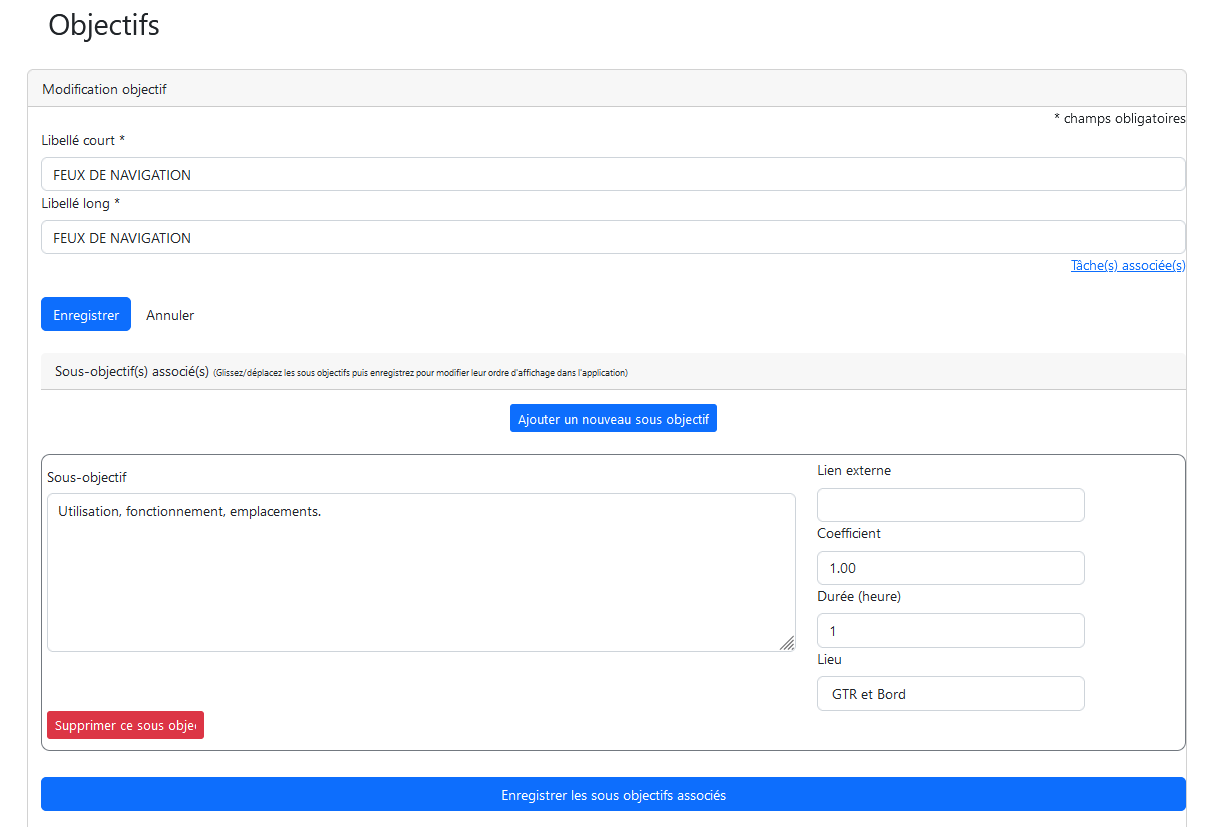
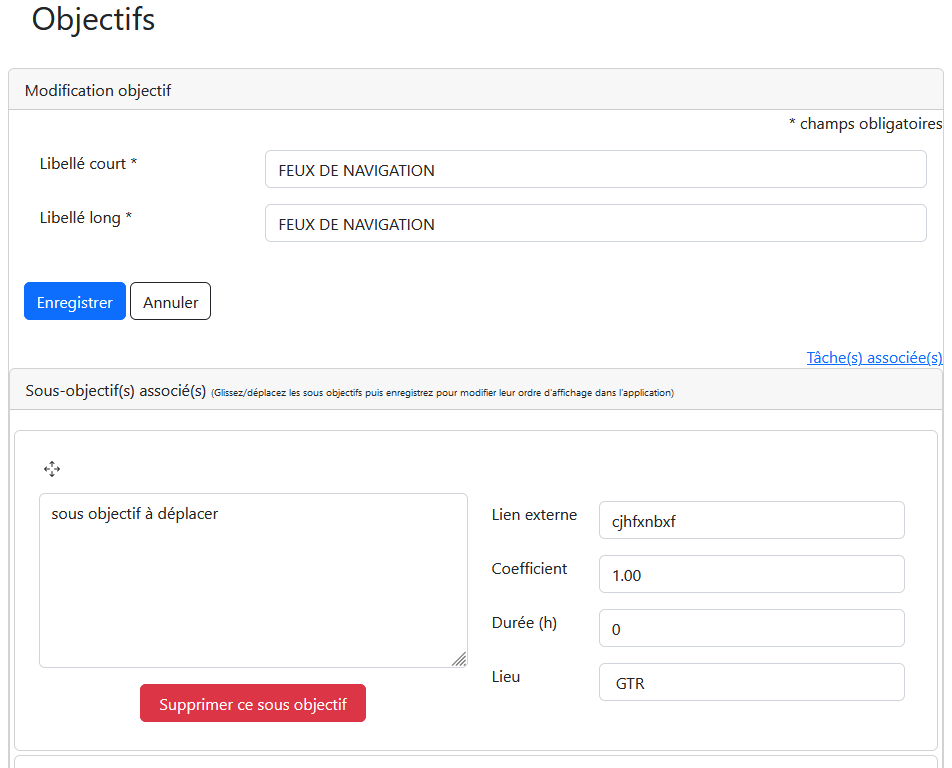
mise a jour de la doc

diff --git a/resources/docs/1.0/connexion.md b/resources/docs/1.0/connexion.md
@@ -2,21 +2,21 @@
 
 
 - [Généralités](#generalite)
-- [Login Auto](#login_auto)
+- [Login MindefConnect](#login_auto)
 - [Login Local](#login_local)
 - [Instance de démonstration](#inst_demo)
 
 <a name="generalite">
 ## Généralités
 
-Pour accéder à FFAST, l’utilisateur doit avoir accès à un ordinateur ayant accès à **Intradef**.  Il existe deux façons de se connecter à l'application :
-  - Le login "auto" qui permet de se connecter avec ses identifiants DR-CPT.
-  - Le login "local" qui permet de se connecter avec son @mail et un mot de passe défini par l'utilisateur.
+Pour accéder à FFAST, l’utilisateur doit avoir accès à un ordinateur ayant accès à **Intradef**. Après avoir cliqué sur le bouton "login" de la page d'accueil du site, deux types de connexion sont disponibles :
+  - (1) L'authentification MindefConnect (ex-login "auto") qui permet de se connecter avec ses identifiants DR-CPT.
+  - (2) Le login "local" qui permet de se connecter avec son @mail et un mot de passe défini par l'utilisateur.
 <p>&nbsp;</p>
-<img src="{{ url(asset('docs/images/' . env('DOC_VERSION') . '/connexion/login_auto_local.png' )) }}" >
+<img src="{{ url(asset('docs/images/' . env('DOC_VERSION') . '/connexion/accueil_login.png' )) }}" >
 <p>&nbsp;</p>
 <a name="login_auto">
-## Login Auto
+## Authentification MindefConnect
 
 En cliquant sur LOGIN AUTO, si les services du socle DIRISI sont tous fonctionnels, il vous sera proposé  de vous connecter en entrant un identifiant et un mot de passe.
 Entrez votre l’identifiant DR-CTP (en général premier lettre du prénom.nom – ex : p.nom) et votre mot de passe : 
@@ -25,7 +25,8 @@ Entrez votre l’identifiant DR-CTP (en général premier lettre du prénom.nom 
 
 <img src="{{ url(asset('docs/images/' . env('DOC_VERSION') . '/connexion/MindefConnect.png' )) }}">
 
->{info} Lors de la première connexion, FFAST indiquera que la demande d’accès a été enregistrée, et que l’action d’un administrateur est nécessaire pour valider l’ouverture des droits. 
+
+>{info} Lors de la première connexion, il vous sera demandé de saisir la raison de votre demande d'accès à l'application.L'administrateur validera ensuite l’ouverture des droits. 
 
 >Un mail confirmant votre autorisation d'accès vous sera envoyé dès que votre compte sera actif.
 
@@ -40,13 +41,13 @@ D’une façon générale, le mot de passe peut-être réinitialisé par le CORS
 
 Pour pallier le fait que certains marins n'ont pas de session Windows lors de leur mise pour emploi à bord des FREMM ou les indisponibilités des services DIRISI, il est aussi possible de se connecter avec LOGIN LOCAL.
 
-Afin de disposer d'identifiants locaux, vous devez initialiser votre mot de passe local en passant par le menu "GD prénom NOM/changer le mot de passe" lors de votre première connexion "automatique". Ce mot de passe doit contenir au moins 8 caractères.
+Afin de disposer d'identifiants locaux, vous devez initialiser votre mot de passe local en passant par le menu "GD prénom NOM/changer le mot de passe" lors de votre première connexion MindefConnect. Ce mot de passe doit contenir au moins 8 caractères.
 <p>&nbsp;</p>
 <img src="{{ url(asset('docs/images/' . env('DOC_VERSION') . '/connexion/login_local.png' )) }}" width="500px">
 <p>&nbsp;</p>
-Dans le cas ou le "login auto" n'est pas possible, vous saisissez votre adresse mail intradef complète et le mot de passe choisi (1). Après validation (2), vous pourrez accéder à l'application comme si vous vous étiez connecté de façon automatique.
+Dans le cas ou l'authentification MindefConnect n'est pas possible, vous saisissez votre adresse mail intradef complète et le mot de passe choisi (1). Après validation (2), vous pourrez accéder à l'application.
 
->{info} Que la connexion soit établie avec le login local ou le login auto, dans les deux cas, vous travaillerez sur la même application. Il n'y a pas de travail "local" possible.
+>{info} Que la connexion soit établie avec le login local ou MindefConnect, dans les deux cas, vous travaillerez sur la même application. Il n'y a pas de travail "local" possible.
 
 Si la réinitialisation du mot de passe DR-CPT n’est pas possible ou ne peut pas être faite, et que vous n'avez pas initialisé vos identifiants locaux, il faut l’intervention d’un administrateur de FFAST. Il suffit donc d’envoyer un mail à l’adresse: ffast.notification.tec@intradef.gouv.fr.
 D’une façon générale, l’administrateur de FFAST s’efforcera de communiquer un mot de passe temporaire à l’utilisateur et à un cadre de proximité. Il sera alors conseillé à l’utilisateur de modifier son mot de passe à la première connexion.

diff --git a/resources/docs/1.0/transformation.md b/resources/docs/1.0/transformation.md
@@ -21,7 +21,7 @@ Ce menu permet d’accéder :
 3. à la liste des compagnonnages. La selection d'un compagnonnage permet de consulter et valider les marins ayant ce compagnonnage associé à une de ses fonctions.
 4. à la liste des stages. La selection d'un stage permet de consulter la liste des marins en attente de ce stage ou ceux l’ayant déjà validé.
 5. au calcul des taux de transformation.
-6. à l'ensemble des fiches bilan. Des filtres permettent d'affiner l'affcihage.
+6. à l'ensemble des fiches bilan. Des filtres permettent d'affiner l'affichage.
 
 <a name="suivi-par-marin">
 ## Suivi de la transformation par marin
@@ -38,13 +38,13 @@ Ce menu permet d’accéder :
 <a name="attribuer-des-fonctions">
 ### Attribuer des fonctions
 Écran permettant l’attribution et le retrait de fonction à un marin.
-<img src="{{ url(asset('docs/images/' . env('DOC_VERSION') . '/transformation/attribution_fonctions.png' )) }}" width=600px>
+<img src="{{ url(asset('docs/images/' . env('DOC_VERSION') . '/transformation/attribution_fonctions.png' )) }}">
 1. Identité du marin concerné
 2. Liste des fonctions attribuées. 
 3. Le bouton (3) « Retirer cette fonction » retire la fonction au marin.
 4. Sélectionnez dans la liste déroulante la fonction à attribuer puis cliquez sur « Attribuer cette fonction » pour valider.
 5. Une fois les fonctions attribuées, accédez directement au livret de transformation du marin.
-6. Le bouton « Retour » permet de revenir à la liste des marins en transformation.
+6. Le bouton « Annuler » permet de revenir à la liste des marins en transformation.
 
 <a name="livret-de-transformation">
 ### Livret de transformation
@@ -53,8 +53,8 @@ Ce menu permet d’accéder :
 La barre de navigation (1) permet l’accès direct aux autres affichages concernant le marin sélectionné.
 (2) Retrouvez la liste des fonctions du marin. Cliquez sur la ligne pour voir l’ensemble des tâches, objectifs (6), stages (7) et état de lâcher (8) associés à une fonction. 
 
-> {info} Pour chaque fonction, les icônes suivantes signifient : 
->  - **&#10004;** le marin est lâché dans cette fonction.
+> **Remarque :**  Pour chaque fonction, les icônes suivantes signifient : 
+>  - <span class="text-success">**&#10004;**</span> le marin est lâché dans cette fonction.
 >  - **&#128232;** des objectifs sont en attente de validation.
 
 <img src="{{ url(asset('docs/images/' . env('DOC_VERSION') . '/transformation/livret_de_transformation_developpe.png' )) }}" width=1000px> 

diff --git a/resources/docs/1.0/parcours.md b/resources/docs/1.0/parcours.md
@@ -4,7 +4,7 @@
 - [Compagnonnages](#compagnonnages)
 - [Tâches](#taches)
 - [Objectifs](#objectifs)
-- [Ordre d'afficgage](#ordre-affichage)
+- [Ordre d'affichage](#ordre-affichage)
 - [Stages](#stages)
 - [Exporter les parcours](#export_parcours)
 
@@ -77,13 +77,13 @@ Vous retrouvez la liste de tous les objectifs (1). Un filtre (2) permet d’affi
 > - Suppression : La suppression d'un objectif **entraine la suppression** des sous objectifs qui lui sont associés.
 
 <a name="ordre-affichage">
-## Ordre d'afficgage
+## Ordre d'affichage
 
 Pour chaque élément du parcours de transformation (Fonction, Compagnonnage, Tache et Objectif), la page d'édition permet de
 définir l'ordre d'affichage des éléments constitutifs dans les différentes pages de l'application (notamment dans le livret
 de transformation et la page de suivi par compagnonage).
 
-Pour cela, il suffit de déplacer les éléments avec la souris (cliquer sur l'élément à déplacer puis, tout en maintenant le
+Pour cela, il suffit de déplacer les éléments avec la souris (cliquer sur la croix de l'élément à déplacer puis, tout en maintenant le
 bouton de la souris enfoncé, déplacer l'élément vers le haut ou vers le bas puis relacher le bouton).
 Une fois l'ordre désiré obtenu à l'écran, cliquer sur le bouton "Enregistrer" pour sauvegarder l'ordre en base de donnée.  
 
